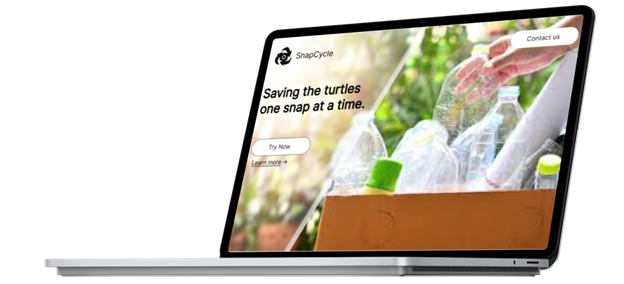
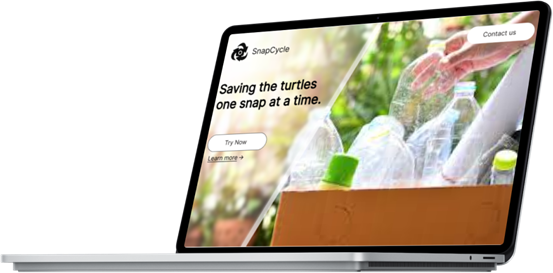
Added phone to panel two

diff --git a/src/pages/Home.jsx b/src/pages/Home.jsx
@@ -27,6 +27,8 @@ import GameController from "../assets/Home/ItemCategories/GameController.png";
 import Paper from "../assets/Home/ItemCategories/Paper.png";
 import FoodContainer from "../assets/Home/ItemCategories/FoodContainer.png";
 import Paint from "../assets/Home/ItemCategories/Paint.png";
+import PanelTwoPhone from "../assets/Home/PanelTwoPhone.png";
+import PanelTwoLaptop from "../assets/Home/PanelTwoLaptop.png";
 
 
 const Home = () => {
@@ -100,11 +102,7 @@ const Home = () => {
                         Anywhere
                     </div>
                     <div className='SubText'>
-                        {/* Take a picture of the object in front of you, that’s all you<br></br>
-                        have to do! Let SnapCycle do the rest as it detects the<br></br>
-                        object for you, and lets you in on all the sweet disposing<br></br>
-                        details. */}
-                        Take a picture of the object in front of you, that’s all you
+                        Take a picture of the object in front of you, that &#39; s all you
                         have to do! Let SnapCycle do the rest as it detects the
                         object for you, and lets you in on all the sweet disposing
                         details.
@@ -118,7 +116,8 @@ const Home = () => {
                     </div>
                 </div>
                 <div className='PanelTwoImages'>
-
+                    {/* <img src={PanelTwoLaptop} alt="Laptop" className='PanelTwoLaptop' /> */}
+                    <img src={PanelTwoPhone} alt="Phone" className='PanelTwoPhone' />
                 </div>
             </div>
             <div className='PanelThree'>

diff --git a/src/styles/Home.css b/src/styles/Home.css
@@ -54,11 +54,12 @@
 }
 
 .PanelTwo {
-    display: flex;
     height: 500px;
-    text-align: left;
     max-width: 1350px;
     margin: 0 auto;
+    display: flex;
+    align-items: center;
+    text-align: left;
 }
 
 .PanelTwoText {
@@ -70,12 +71,19 @@
     display: flex;
 }
 
-.PanelThree {
+.PanelTwoImages {
     display: flex;
+    flex-direction: row-reverse;
+    flex: 1;
+    font-size: 16px;
+}
+
+.PanelThree {
     height: 500px;
-    text-align: right;
     max-width: 1350px;
     margin: 0 auto;
+    display: flex;
+    text-align: right;
 }
 
 .PanelThreeImage {
